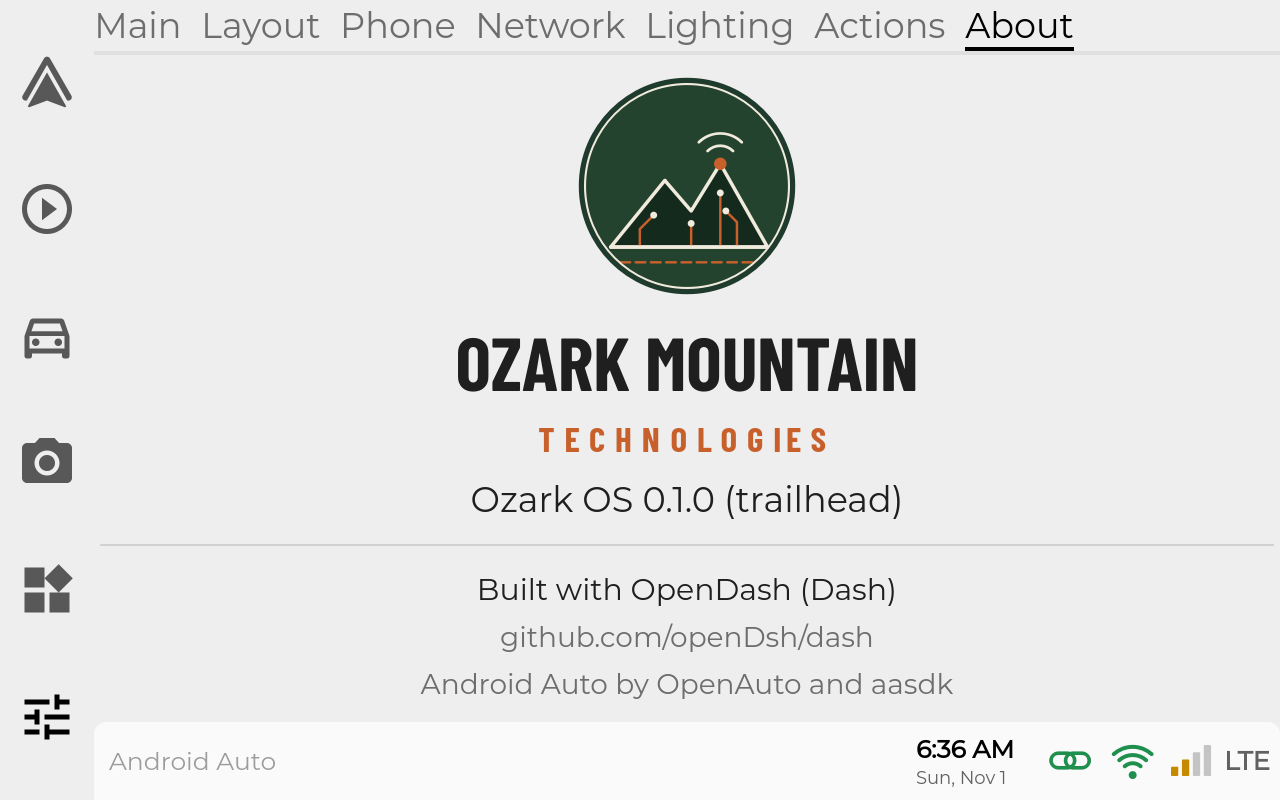
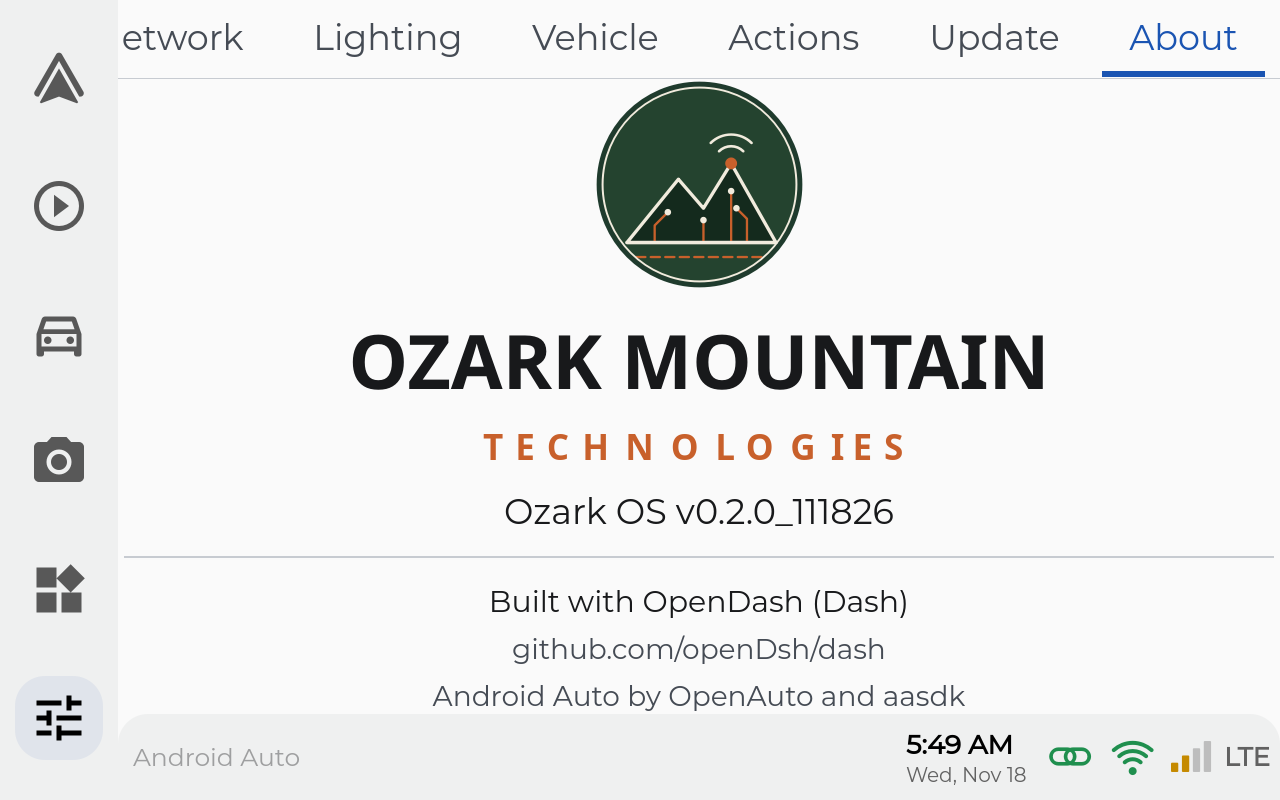
Screenshots for 0.2.0: Material 3, Vehicle page, Bluetooth tab, phone app pairing

diff --git a/README.md b/README.md
@@ -60,6 +60,8 @@ Release images have no SSH or serial login. To debug, build a dev image yourself
 
 ## Screenshots
 
+Taken on a PC build of 0.2.0 with a simulated car, phone and TrailCommand hub.
+
 ### Media
 
 | Radio | Radio (dark) |
@@ -70,6 +72,14 @@ Release images have no SSH or serial login. To debug, build a dev image yourself
 | **Local player (dark)** | **Android Auto** |
 | ![Local player, dark](docs/screenshots/local-player-dark.png) | ![Android Auto](docs/screenshots/android-auto.png) |
 
+### Vehicle
+
+| Gauges | Trouble codes |
+|---|---|
+| ![Gauges](docs/screenshots/vehicle-gauges.png) | ![Trouble codes](docs/screenshots/vehicle-diagnostics.png) |
+| **Tires** | **Lighting** |
+| ![Tires](docs/screenshots/vehicle-tires.png) | ![Lighting](docs/screenshots/lighting.png) |
+
 ### TrailCommand
 
 | Overview | Overview (dark) |
@@ -79,20 +89,22 @@ Release images have no SSH or serial login. To debug, build a dev image yourself
 | ![Controls](docs/screenshots/trailcommand-controls.png) | ![Controls, dark](docs/screenshots/trailcommand-controls-dark.png) |
 | **Tyres** | **Service** |
 | ![Tyres](docs/screenshots/trailcommand-tires.png) | ![Service](docs/screenshots/trailcommand-service.png) |
-| **Power** | **Lighting** |
-| ![Power](docs/screenshots/trailcommand-power.png) | ![Lighting](docs/screenshots/lighting.png) |
+| **Power** | |
+| ![Power](docs/screenshots/trailcommand-power.png) | |
 
 ### Settings
 
-| Settings | Phone |
+| Settings | Bluetooth |
 |---|---|
-| ![Settings](docs/screenshots/settings-main.png) | ![Phone](docs/screenshots/settings-phone.png) |
+| ![Settings](docs/screenshots/settings-main.png) | ![Bluetooth](docs/screenshots/settings-bluetooth.png) |
+| **Adding a device** | **Pairing the phone app** |
+| ![Add device](docs/screenshots/settings-bluetooth-add.png) | ![Pairing code](docs/screenshots/remote-pairing.png) |
 | **Network** | **On-screen keyboard** |
 | ![Network](docs/screenshots/settings-network.png) | ![Keyboard](docs/screenshots/keyboard.png) |
-| **Theme colour** | **About** |
-| ![Theme colour](docs/screenshots/theme-color.png) | ![About](docs/screenshots/about.png) |
-| **Update** | **Installing an update** |
-| ![Update](docs/screenshots/settings-update.png) | ![Installing](docs/screenshots/settings-update-installing.png) |
+| **Theme colour** | **Update** |
+| ![Theme colour](docs/screenshots/theme-color.png) | ![Update](docs/screenshots/settings-update.png) |
+| **About** | **About (dark)** |
+| ![About](docs/screenshots/about.png) | ![About, dark](docs/screenshots/about-dark.png) |
 
 ## Hardware
 
